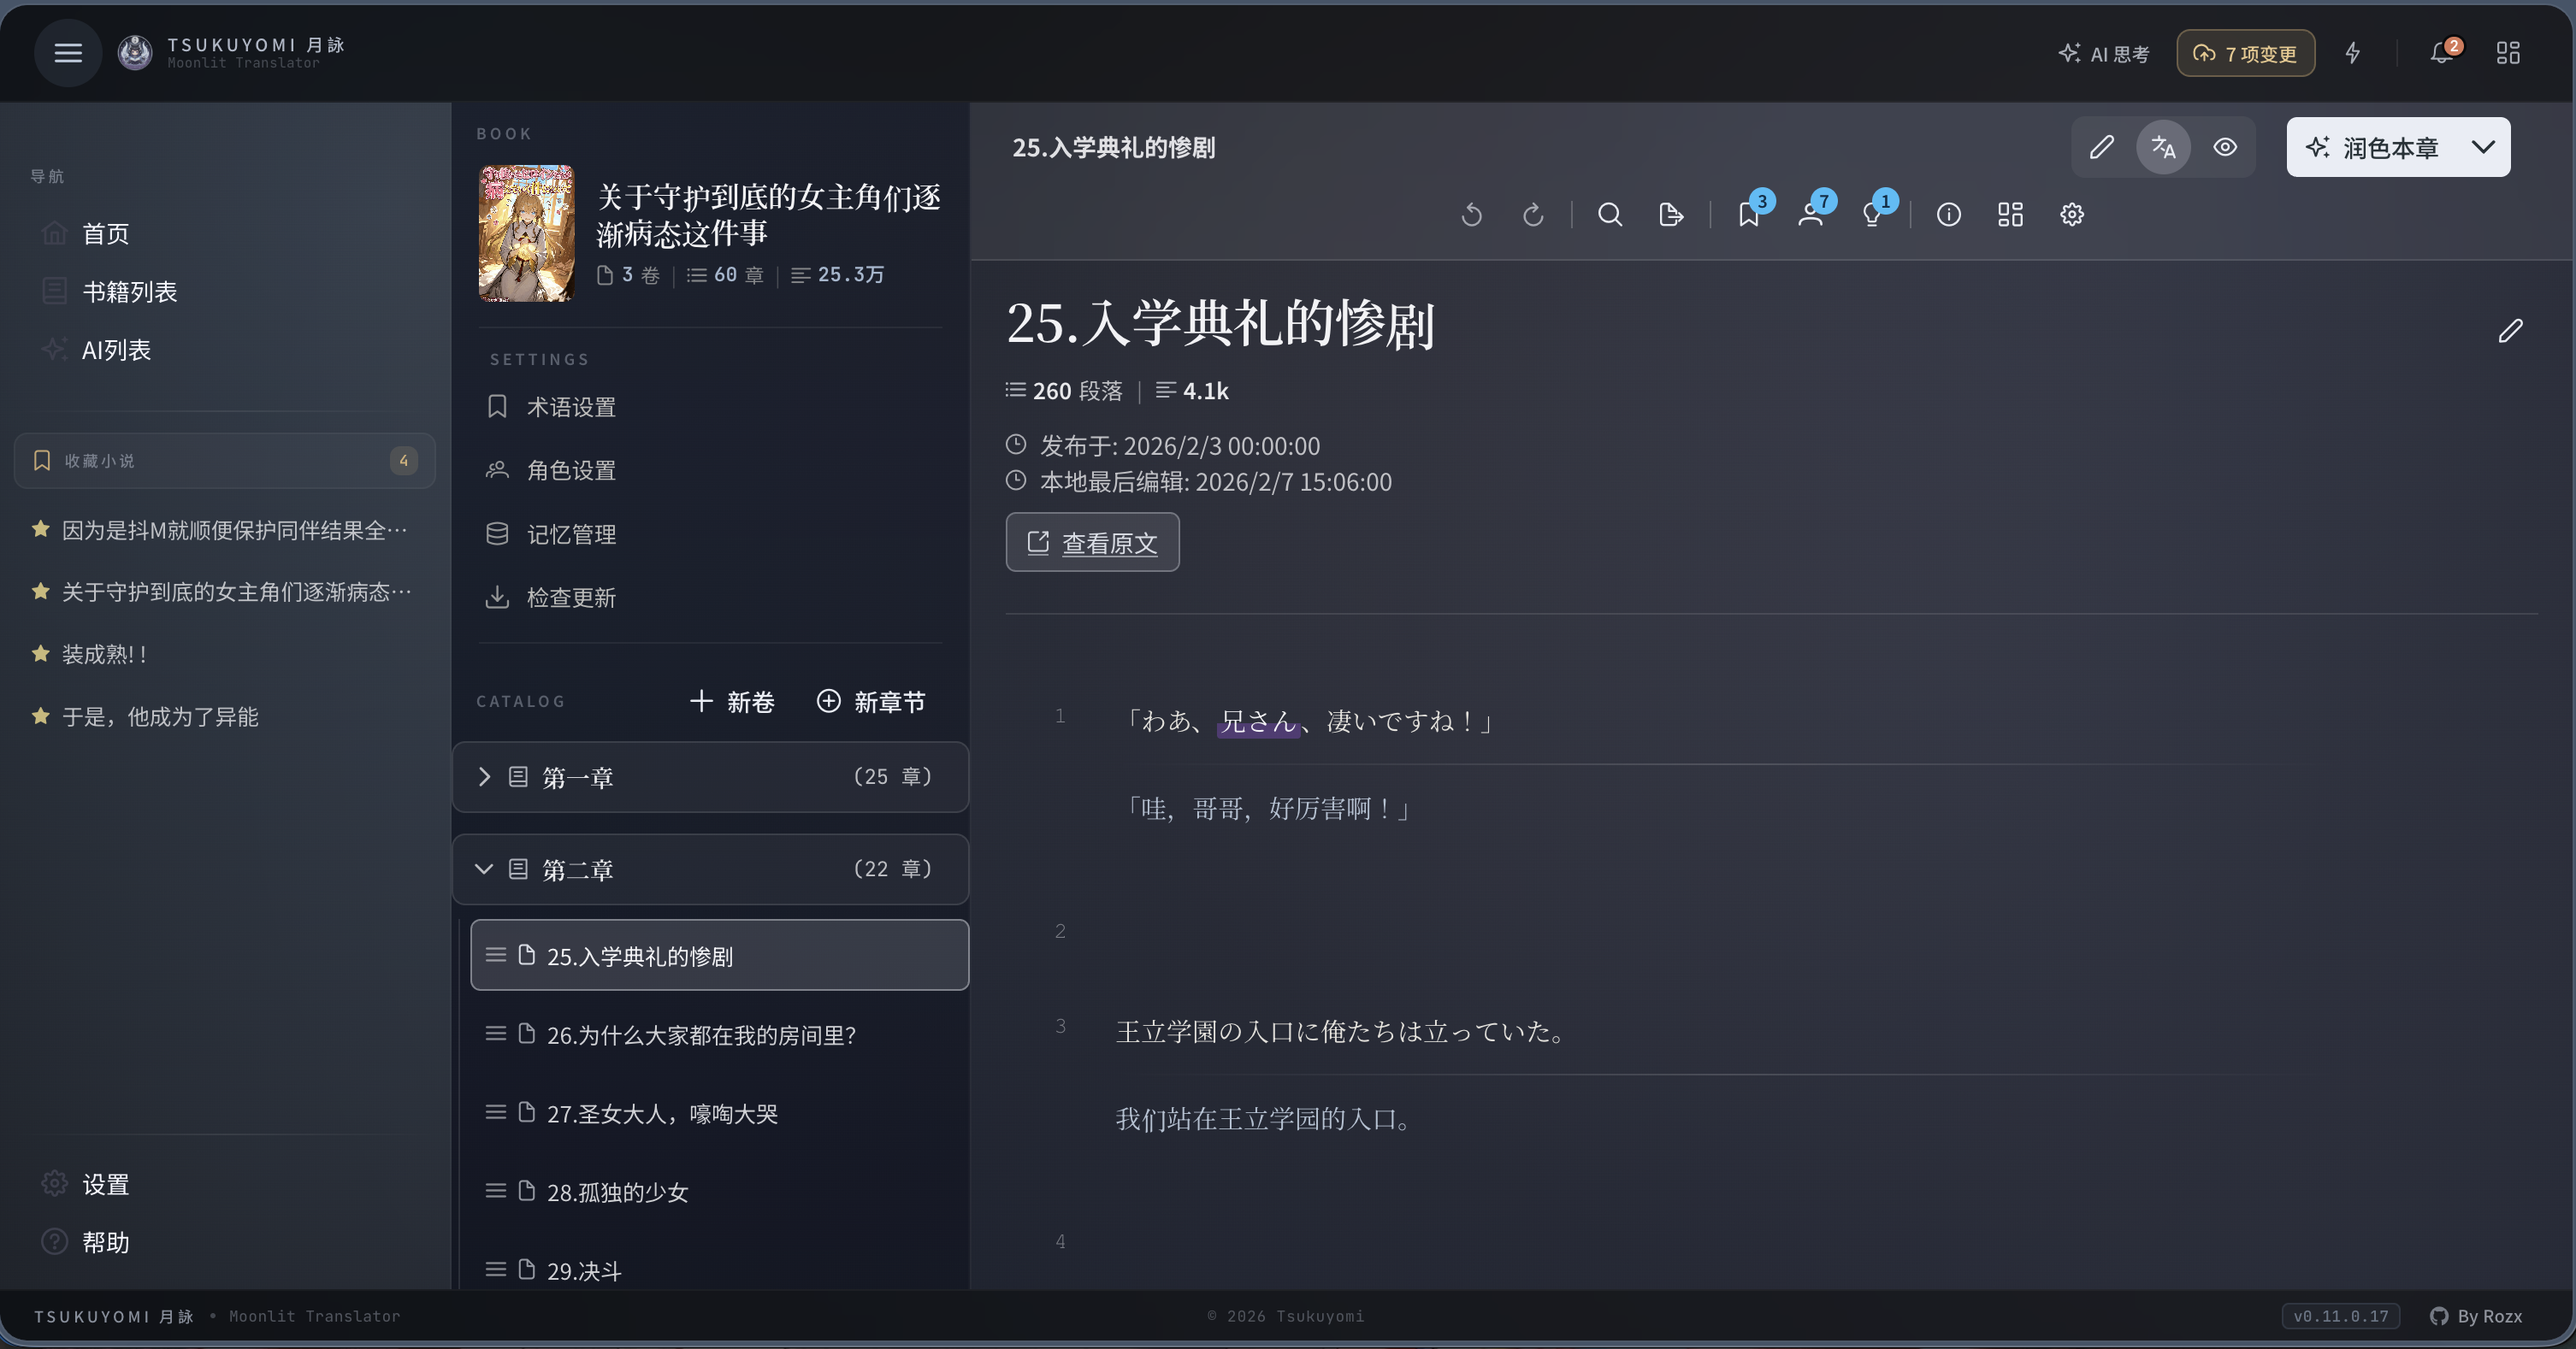
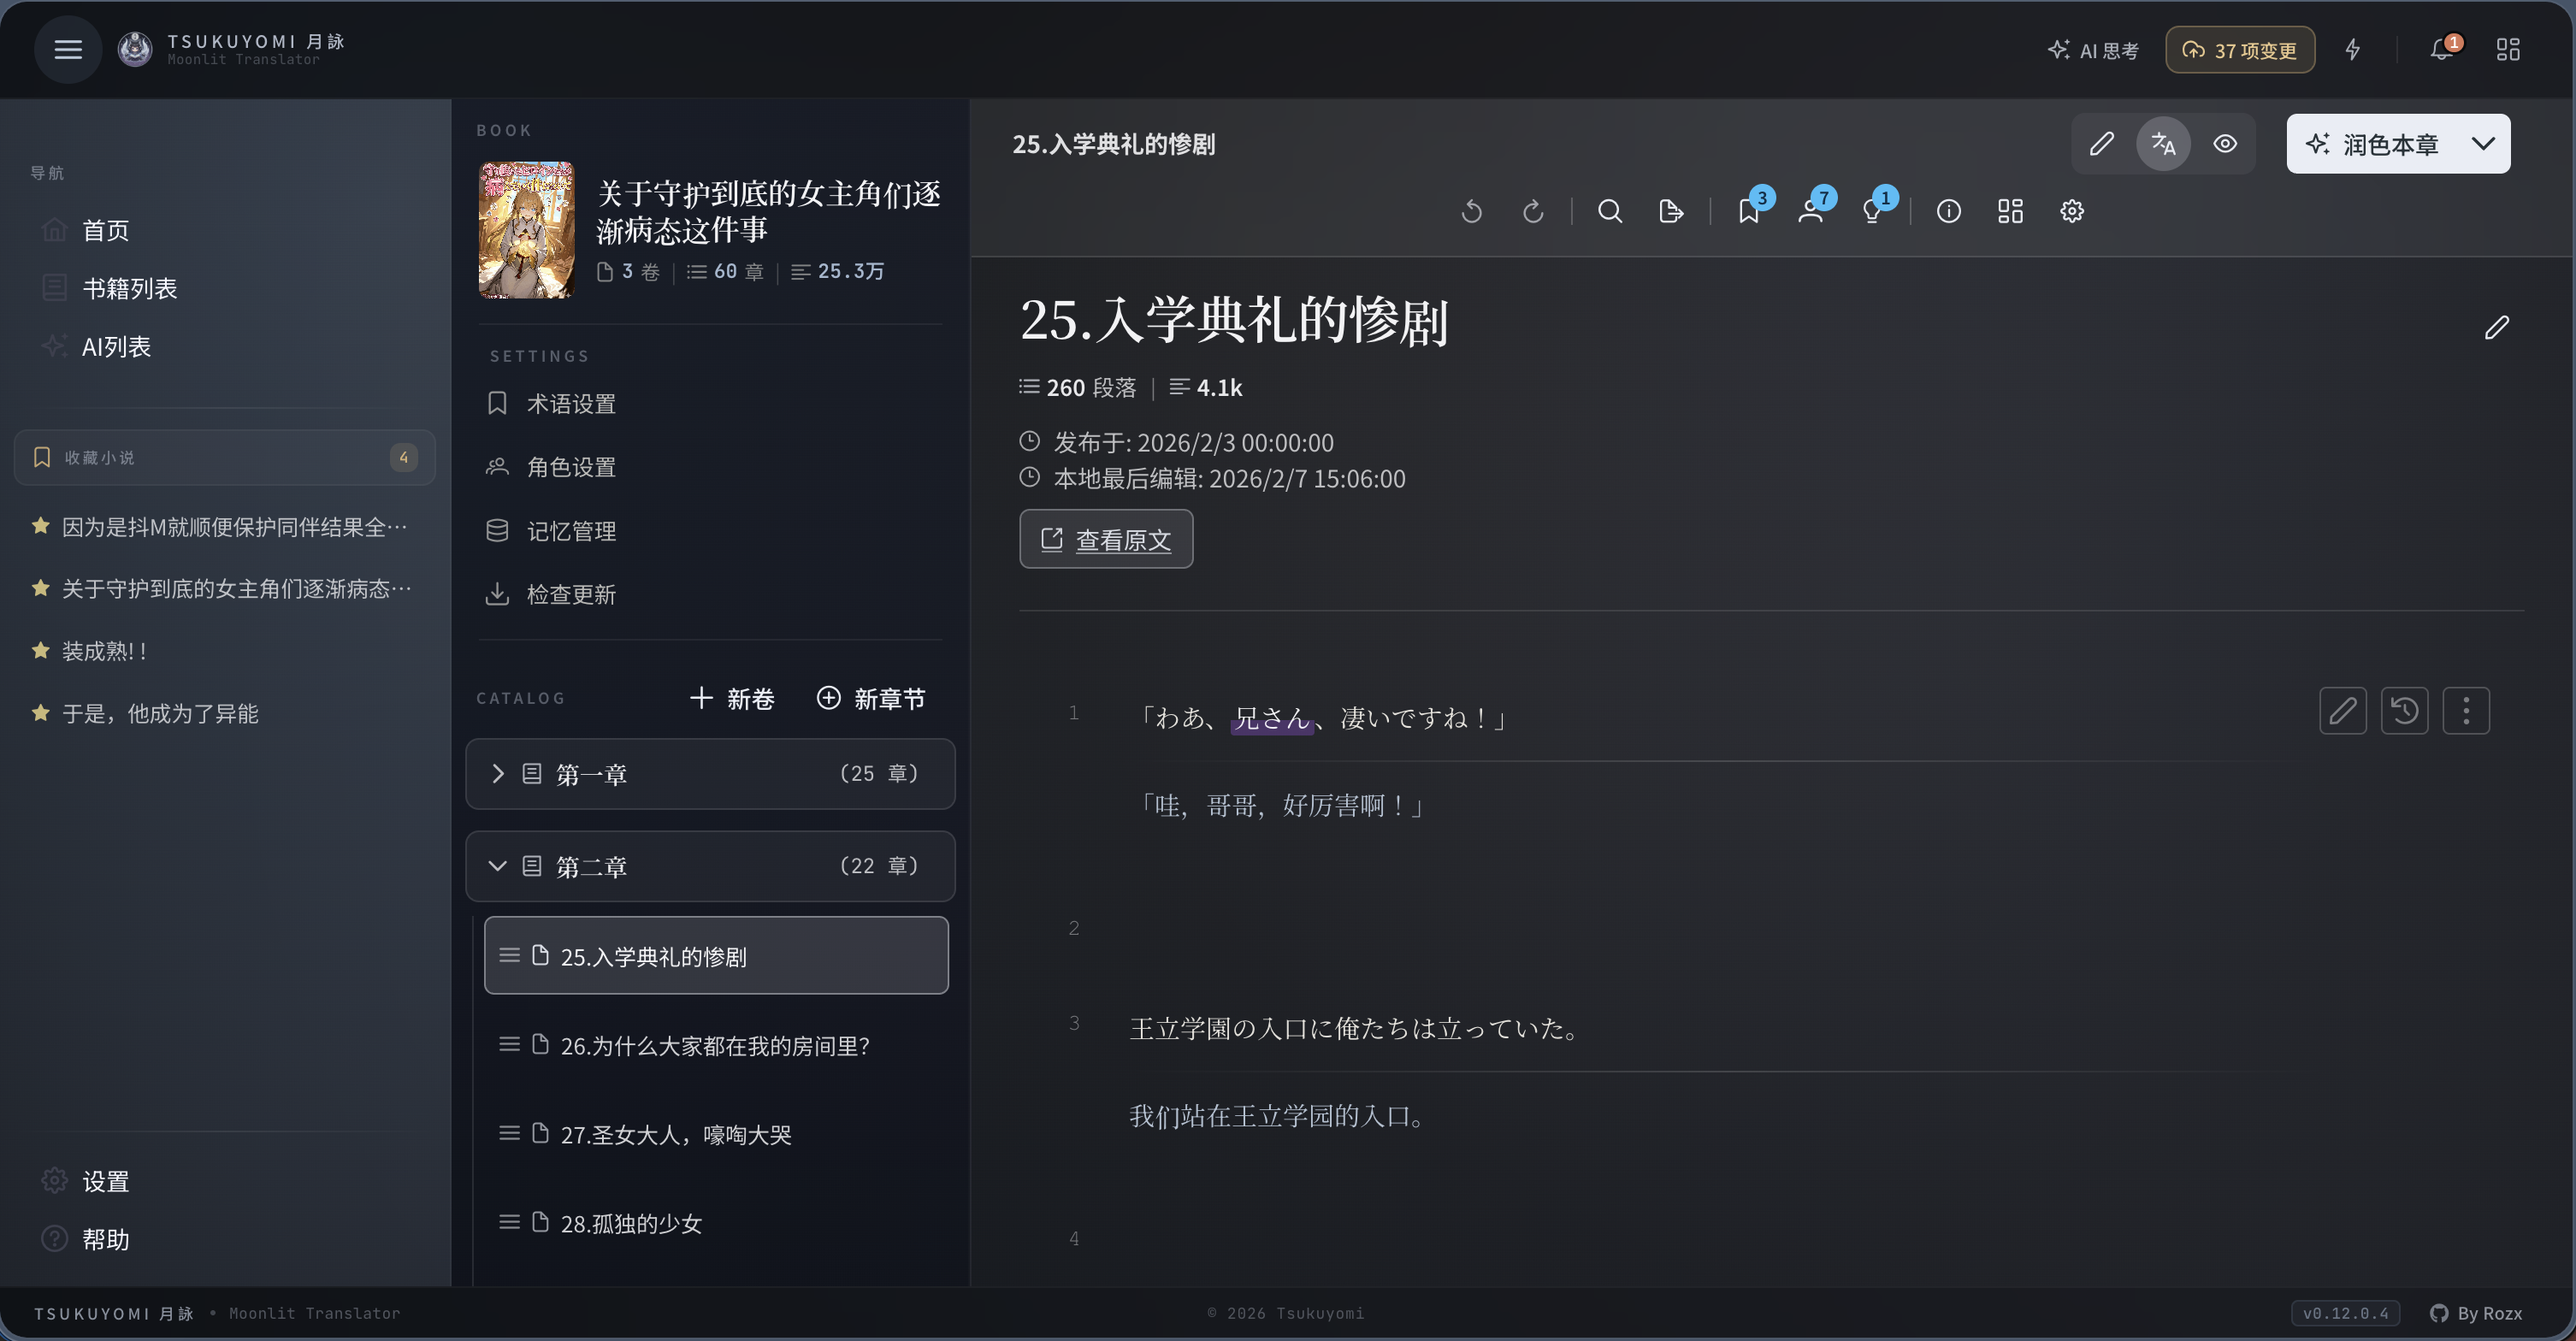
chore: update desktop book details screenshot

diff --git a/src/constants/version.ts b/src/constants/version.ts
@@ -1,4 +1,4 @@
 // 应用版本号
 // 此文件由 scripts/bump-version.ts 自动生成，请勿手动修改
 // 如需更新版本，请运行: bun scripts/bump-version.ts <major|minor|patch|build|version>
-export const APP_VERSION = '0.12.0.5';
+export const APP_VERSION = '0.12.0.6';
